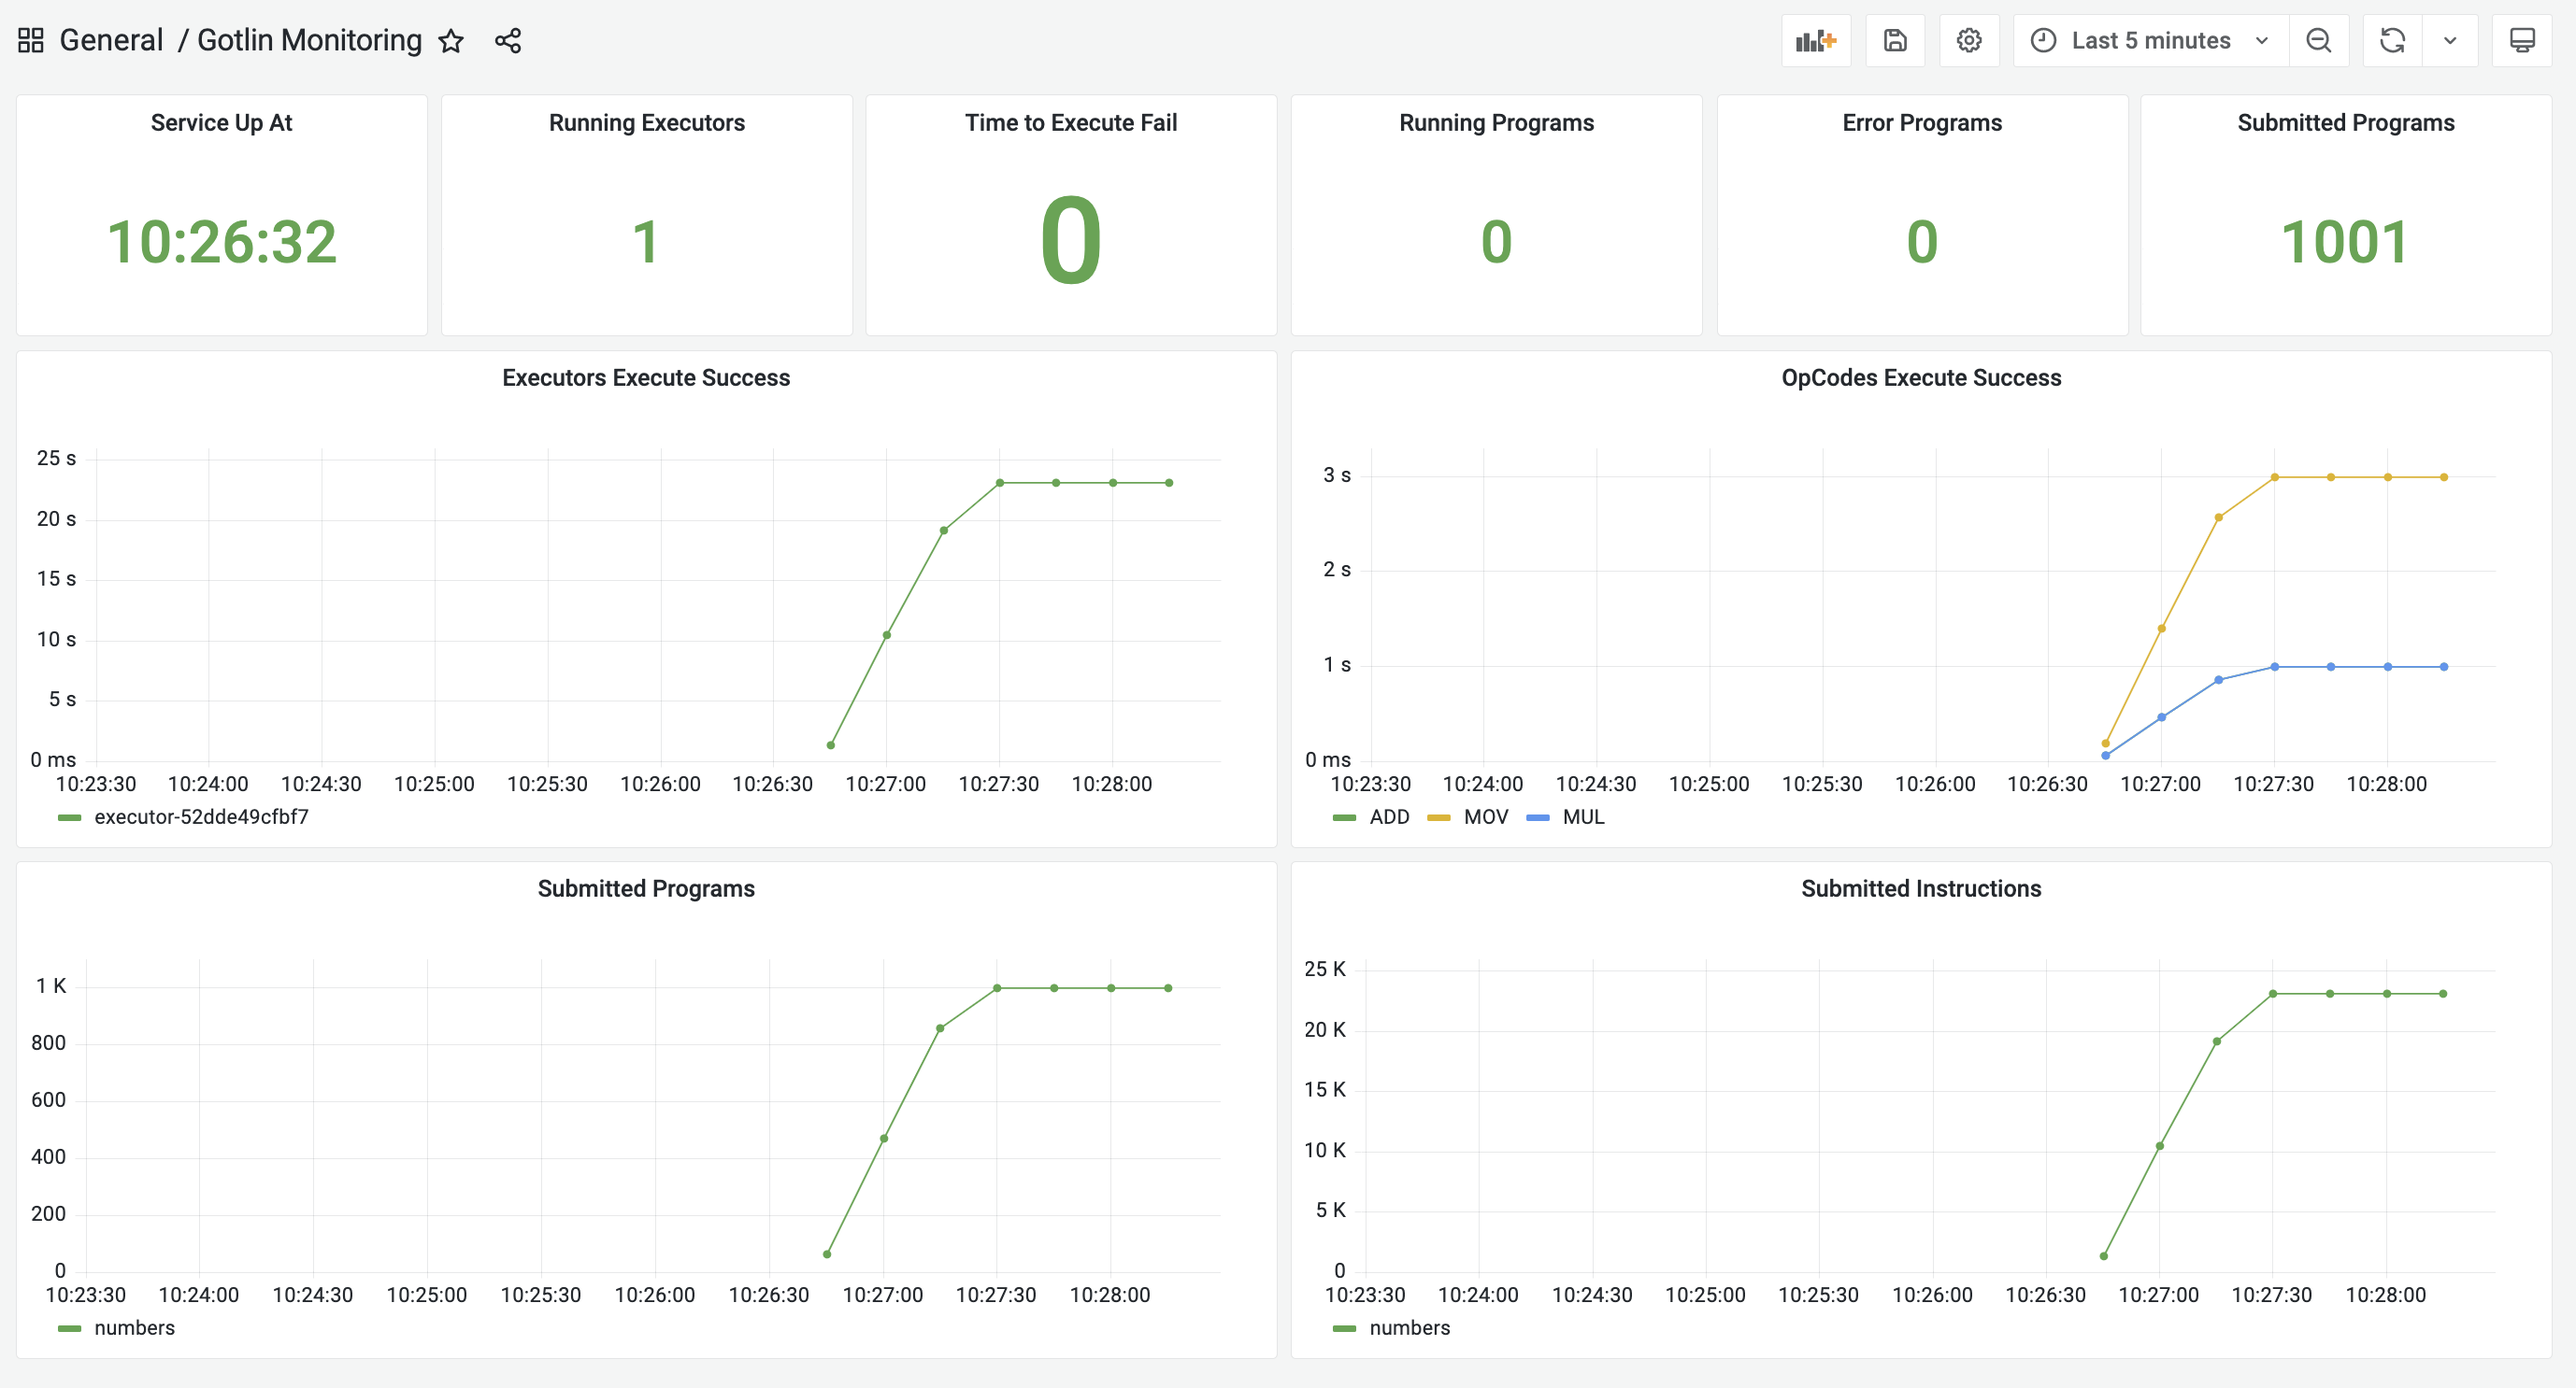
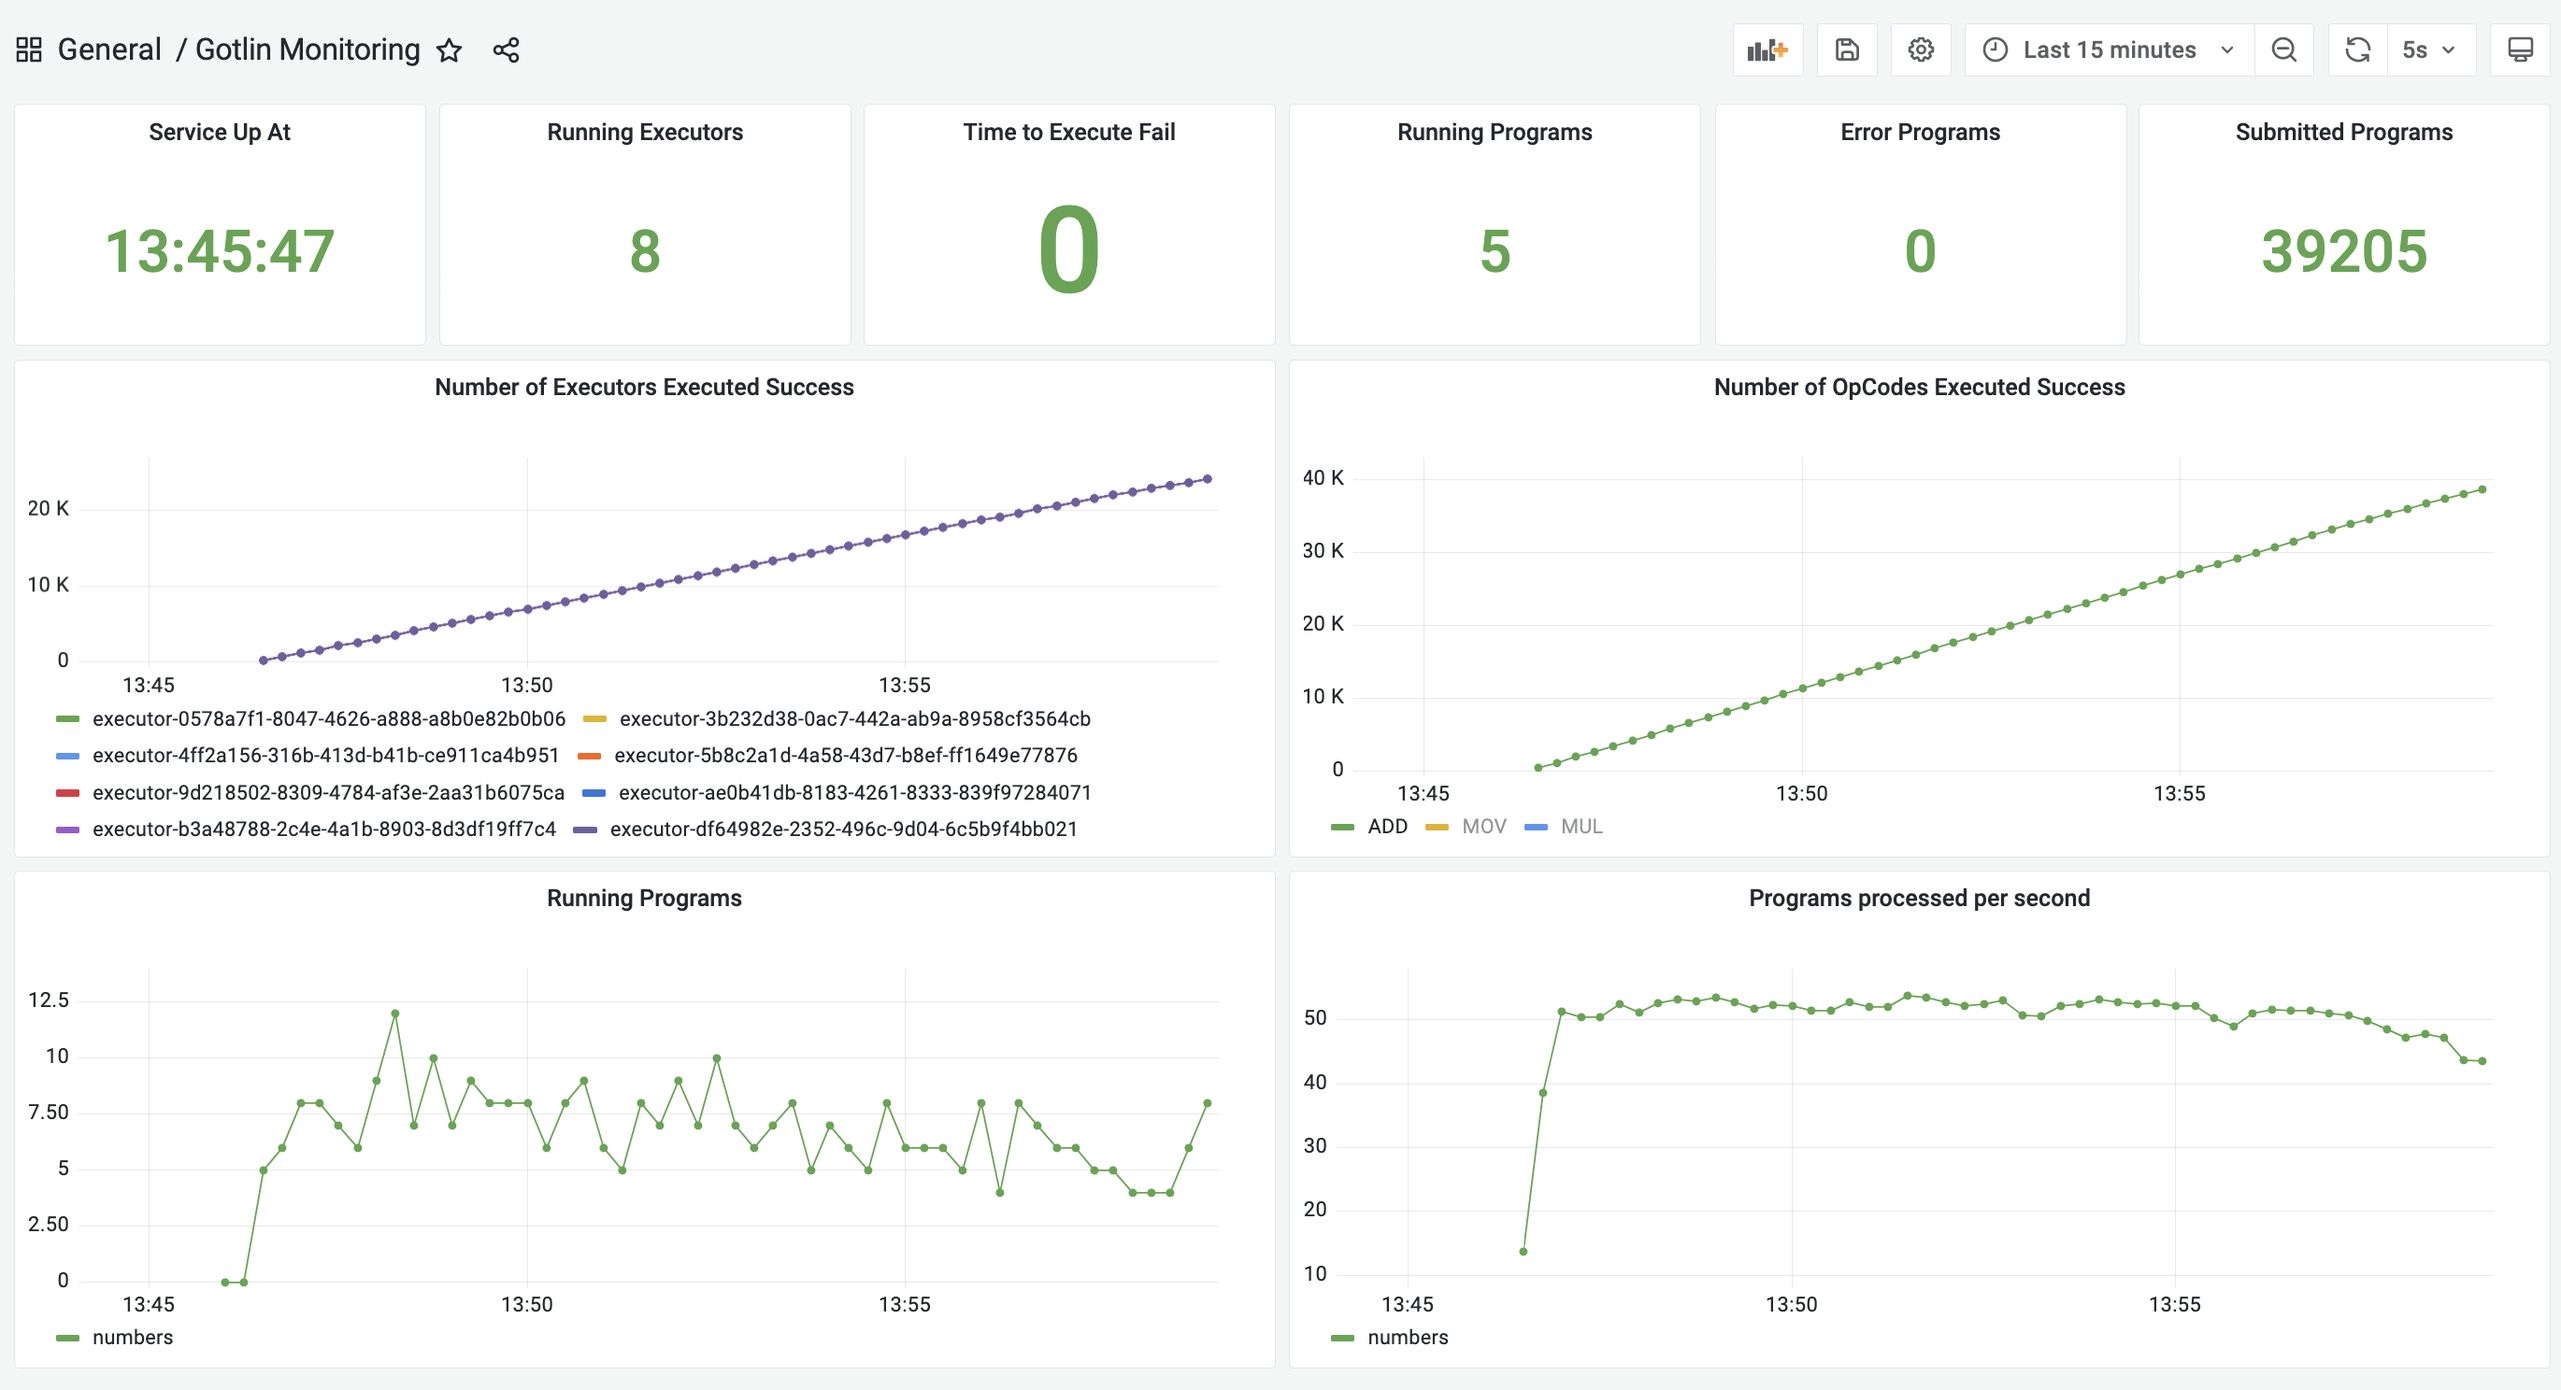
Improve the way benchmarking and data presentation results

diff --git a/cmd/gotlin/main.go b/cmd/gotlin/main.go
@@ -6,6 +6,7 @@ import (
 	"fmt"
 	"log"
 	"net/http"
+	"net/http/pprof"
 	"os"
 	"os/signal"
 	"sort"
@@ -16,6 +17,7 @@ import (
 	"github.com/prometheus/client_golang/prometheus/promhttp"
 	"github.com/urfave/cli/v2"
 	. "github.com/yaoguais/gotlin" //revive:disable-line
+	"golang.org/x/sync/errgroup"
 	"google.golang.org/grpc"
 )
 
@@ -42,7 +44,7 @@ func getApp() *cli.App {
 				Flags: []cli.Flag{
 					&cli.StringFlag{
 						Name:    "address",
-						Aliases: []string{"p"},
+						Aliases: []string{"a"},
 						Usage:   "The listening address has the format host:port",
 						Value:   "0.0.0.0:9527",
 					},
@@ -66,10 +68,23 @@ func getApp() *cli.App {
 						Value:   "",
 					},
 					&cli.StringFlag{
+						Name:    "http",
+						Aliases: []string{"p"},
+						Usage:   "HTTP port used to provide prometheus and pprof services",
+						Value:   ":9090",
+					},
+
+					&cli.BoolFlag{
 						Name:    "prometheus",
 						Aliases: []string{"m"},
-						Usage:   "Prometheus service listens on addresses like ':9090'",
-						Value:   "",
+						Usage:   "Whether to start the prometheus service on the HTTP port",
+						Value:   false,
+					},
+					&cli.BoolFlag{
+						Name:    "pprof",
+						Aliases: []string{"f"},
+						Usage:   "Whether to start the pprof service on the HTTP port",
+						Value:   false,
 					},
 				},
 				Action: start,
@@ -115,6 +130,12 @@ func getApp() *cli.App {
 						Usage:   "The number of submitted tasks that will be forked",
 						Value:   0,
 					},
+					&cli.IntFlag{
+						Name:    "concurrency",
+						Aliases: []string{"c"},
+						Usage:   "Number of multiple tasks to make at a time",
+						Value:   1,
+					},
 				},
 
 				Action: submit,
@@ -133,11 +154,11 @@ func start(c *cli.Context) error {
 	executor := c.Bool("executor")
 	driver := c.String("driver")
 	dsn := c.String("dsn")
-	prom := c.String("prometheus")
+	http := c.String("http")
+	prom := c.Bool("prometheus")
+	pprof := c.Bool("pprof")
 
-	if prom != "" {
-		startProm(prom)
-	}
+	startHTTP(http, prom, pprof)
 
 	options := []Option{
 		WithServerAddress(address),
@@ -230,8 +251,9 @@ func compute(c *cli.Context) error {
 
 func submit(c *cli.Context) error {
 	server := c.String("server")
-	file := c.String("program")
-	count := c.Int("fork") + 1
+	file := strings.TrimLeft(c.String("program"), "@")
+	fork := c.Int("fork")
+	concurrency := c.Int("concurrency")
 
 	options := []ClientOption{
 		WithClientTargetAddress(server),
@@ -250,11 +272,48 @@ func submit(c *cli.Context) error {
 		return err
 	}
 
-	wp := WaitResultOption{IDs: []ProgramID{}}
-	for i := 0; i < count; i++ {
-		p, ins, err := parseProgramFile(strings.TrimLeft(file, "@"))
+	results, err := submitProgram(ctx, g, s, file, 1)
+	if err != nil {
+		return err
+	}
+
+	if len(results) > 0 {
+		outputf("Program evaluates to %v\n", results[0])
+	}
+
+	if fork > 0 {
+		output("Process the remaining forked programs. Waiting...\n")
+
+		wg := &errgroup.Group{}
+		per := fork / concurrency
+		rest := fork % concurrency
+
+		for i := 0; i < concurrency; i++ {
+			n := per
+			if i == 0 {
+				n += rest
+			}
+			wg.Go(func() error {
+				_, err := submitProgram(ctx, g, s, file, n)
+				return err
+			})
+		}
+
+		err := wg.Wait()
 		if err != nil {
 			return err
+		}
+	}
+
+	return nil
+}
+
+func submitProgram(ctx context.Context, g *Client, s SchedulerID, file string, count int) ([]interface{}, error) {
+	wp := WaitResultOption{IDs: []ProgramID{}}
+	for i := 0; i < count; i++ {
+		p, ins, err := parseProgramFile(file)
+		if err != nil {
+			return nil, err
 		}
 
 		err = g.RunProgram(ctx, RunProgramOption{
@@ -263,7 +322,7 @@ func submit(c *cli.Context) error {
 			Instructions: ins,
 		})
 		if err != nil {
-			return err
+			return nil, err
 		}
 
 		wp.IDs = append(wp.IDs, p.ID)
@@ -271,18 +330,18 @@ func submit(c *cli.Context) error {
 
 	ch, err := g.WaitResult(ctx, wp)
 	if err != nil {
-		return err
+		return nil, err
 	}
 
 	var results []interface{}
 	for v := range ch {
 		if v.Error != nil {
-			return errors.Errorf("Error in program, %v\n", v.Error)
+			return nil, errors.Errorf("Error in program, %v\n", v.Error)
 		}
 		var value interface{}
 		err = json.Unmarshal(v.Result.([]byte), &value)
 		if err != nil {
-			return err
+			return nil, err
 		}
 		results = append(results, value)
 		if len(results) == count {
@@ -290,11 +349,7 @@ func submit(c *cli.Context) error {
 		}
 	}
 
-	if len(results) > 0 {
-		outputf("Program evaluates to %v\n", results[0])
-	}
-
-	return nil
+	return results, nil
 }
 
 func parseProgramFile(file string) (p Program, ins []Instructioner, err error) {
@@ -390,9 +445,24 @@ func parseIDPairs(s string) (InstructionID, string) {
 	return id, s
 }
 
-func startProm(addr string) {
+func startHTTP(addr string, prom, pp bool) {
+	ok := addr != "" && (prom || pp)
+	if !ok {
+		return
+	}
 	go func() {
-		http.Handle("/metrics", promhttp.Handler())
-		http.ListenAndServe(addr, nil)
+		mux := http.NewServeMux()
+		if prom {
+			mux.Handle("/metrics", promhttp.Handler())
+		}
+		if pp {
+			mux.HandleFunc("/debug/pprof/", pprof.Index)
+			mux.HandleFunc("/debug/pprof/cmdline", pprof.Cmdline)
+			mux.HandleFunc("/debug/pprof/profile", pprof.Profile)
+			mux.HandleFunc("/debug/pprof/symbol", pprof.Symbol)
+			mux.HandleFunc("/debug/pprof/trace", pprof.Trace)
+		}
+		srv := http.Server{Addr: addr, Handler: mux}
+		srv.ListenAndServe()
 	}()
 }

diff --git a/prometheus.go b/prometheus.go
@@ -44,6 +44,14 @@ var (
 		ConstLabels: promConstLabels,
 	}, []string{"id", "error"})
 
+	totalExecutionNumberOfExecutor = promauto.NewCounterVec(prometheus.CounterOpts{
+		Namespace:   promNamespace,
+		Subsystem:   promExecutor,
+		Name:        "execution_number_total",
+		Help:        "Executor execution number statistics with or without error conditions",
+		ConstLabels: promConstLabels,
+	}, []string{"id", "error"})
+
 	numberOfSubmittedProgram = promauto.NewCounter(prometheus.CounterOpts{
 		Namespace:   promNamespace,
 		Subsystem:   promProgram,
@@ -59,6 +67,14 @@ var (
 		Help:        "The number of currently running Programs",
 		ConstLabels: promConstLabels,
 	})
+
+	numberOfExitedProgram = promauto.NewCounterVec(prometheus.CounterOpts{
+		Namespace:   promNamespace,
+		Subsystem:   promProgram,
+		Name:        "exited_total",
+		Help:        "The number of exited Programs",
+		ConstLabels: promConstLabels,
+	}, []string{"error"})
 
 	numberOfExecutedErrorProgram = promauto.NewCounter(prometheus.CounterOpts{
 		Namespace:   promNamespace,
@@ -109,6 +125,7 @@ func (m prom) Execute(id ExecutorID, d time.Duration, err error) {
 
 	v := d / 1e6
 	totalExecutionTimeOfExecutor.WithLabelValues(id.String(), errValue).Add(float64(v))
+	totalExecutionNumberOfExecutor.WithLabelValues(id.String(), errValue).Inc()
 }
 
 func (m prom) AddRunningProgram() {
@@ -118,9 +135,12 @@ func (m prom) AddRunningProgram() {
 
 func (m prom) RemoveRunningProgram(err error) {
 	numberOfRunningProgram.Dec()
+	errValue := "0"
 	if err != nil {
+		errValue = "1"
 		numberOfExecutedErrorProgram.Inc()
 	}
+	numberOfExitedProgram.WithLabelValues(errValue).Inc()
 }
 
 func (m prom) ExecuteInstruction(in Instruction, d time.Duration, err error) {

diff --git a/README.md b/README.md
@@ -73,9 +73,14 @@ Then you can log in to the grafana web ui to view the system metrics. The login 
 
     Open from browser http://localhost:3000/d/5LryXfunz/gotlin-monitoring
 
+Due to the limitation of docker-compose, if there is currently only one Executor,
+run the following command to increase the number of Executors to 8.
+
+    docker-compose --compatibility up -d
+
 Finally, submit some computing tasks to the service node and check the changes of the indicators. 
 
-    docker-compose exec client gotlin submit --server="gotlin:9527" --program="@program.json" --fork=1000
+    docker-compose exec client gotlin submit --server="gotlin:9527" --program="@program.json" --fork=1000 --concurrency=8
 
 The content of the monitoring display is as follows.
 
